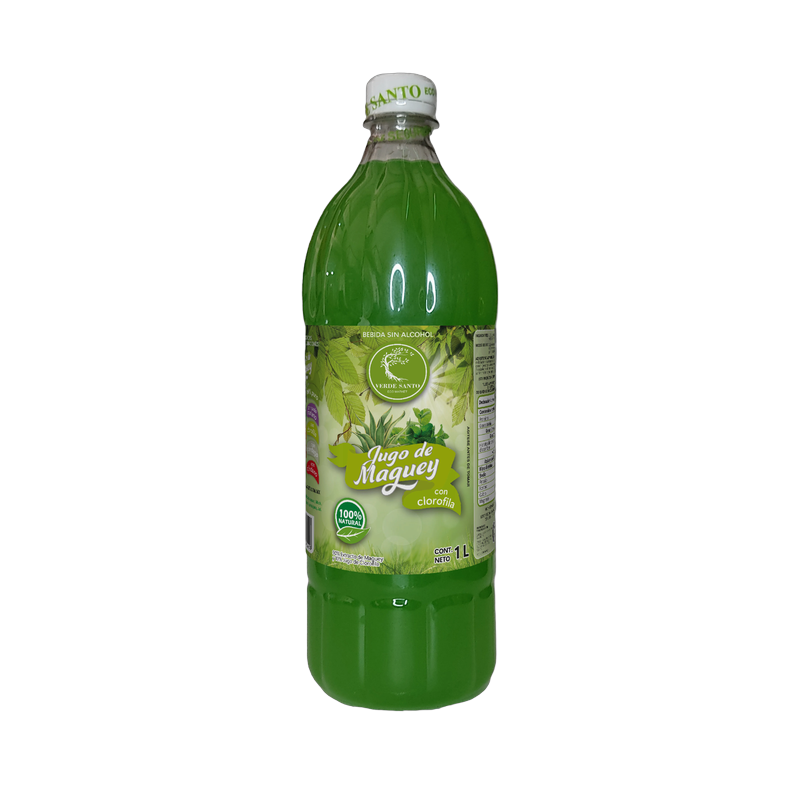
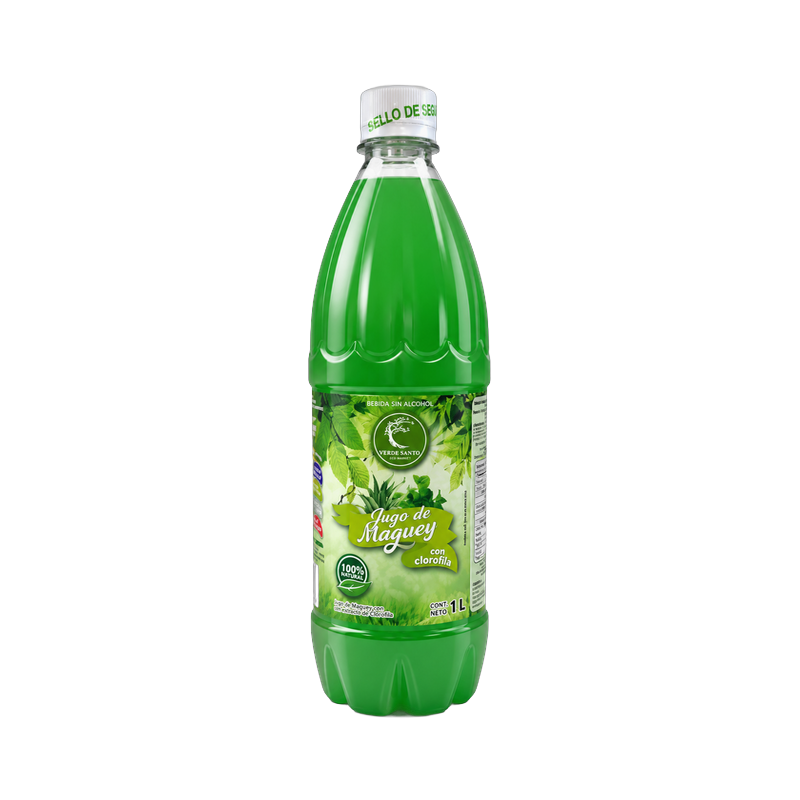
Fotos nuevas: Jugo de Maguey muérdago y clorofila PET 1 L, y Jugo de Noni 1 L (#28)
* Fotos nuevas de Jugo de Maguey con muérdago y con clorofila PET 1 L (misma altura que los otros 8)

Claude-Session: https://claude.ai/code/session_01MW4YBNVCdbsHfkz1U2M1qe

* Cotizador usa las fotos nuevas de muérdago y clorofila PET 1 L

Claude-Session: https://claude.ai/code/session_01MW4YBNVCdbsHfkz1U2M1qe

* Foto nueva del Jugo de Noni Orgánico 1 L (PNG del kit)

Claude-Session: https://claude.ai/code/session_01MW4YBNVCdbsHfkz1U2M1qe

* Cotizador usa la foto nueva del Jugo de Noni Orgánico 1 L

Claude-Session: https://claude.ai/code/session_01MW4YBNVCdbsHfkz1U2M1qe

---------

Changed region(s): [[0.375, 0.0938, 0.625, 0.9062]]

diff --git a/src/PedidoTabla.jsx b/src/PedidoTabla.jsx
@@ -478,7 +478,7 @@ const productCatalog = [
     mostrador: 150.00,
     digital: 150.00,
     image:
-      "https://res.cloudinary.com/dhldooapx/image/upload/f_auto,q_auto,w_400/v1746042223/d9dzja6dudtvb8gxugpr_vacxoe.webp",
+      "https://res.cloudinary.com/dl2s0vpwb/image/upload/f_auto,q_auto,w_400/v1792092074/verde-santo/vs-jugo-pet-muerdago-1l.png",
     kitImage:
       "/assets/verde-santo/productos/vs-jugo-pet-muerdago-1l.png",
   },
@@ -544,7 +544,7 @@ const productCatalog = [
     mostrador: 150.00,
     digital: 150.00,
     image:
-      "https://res.cloudinary.com/dhldooapx/image/upload/f_auto,q_auto,w_400/v1746042225/otv4gkp7oyhyosyti7fx_kurwfq.webp",
+      "https://res.cloudinary.com/dl2s0vpwb/image/upload/f_auto,q_auto,w_400/v1792092077/verde-santo/vs-jugo-pet-clorofila-1l.png",
     kitImage:
       "/assets/verde-santo/productos/vs-jugo-pet-clorofila-1l.png",
   },
@@ -1248,7 +1248,7 @@ const productCatalog = [
     mostrador: 299.00,
     digital: 299.00,
     image:
-      "https://res.cloudinary.com/dhldooapx/image/upload/f_auto,q_auto,w_400/v1748914950/hyycdupih7f98sqifaix_awjqk1.webp",
+      "https://res.cloudinary.com/dl2s0vpwb/image/upload/f_auto,q_auto,w_400/v1792186487/verde-santo/vs025-jugo-noni-organico-cristal-1l.png",
     kitImage:
       "/assets/verde-santo/productos/vs025-jugo-noni-organico-cristal-1l.png",
   },
